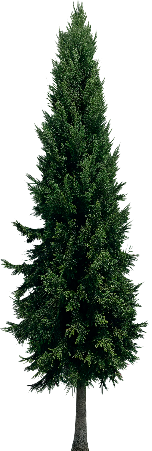
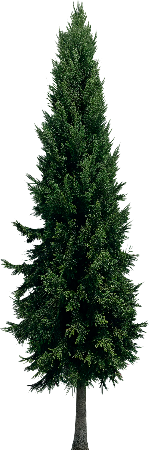
POV changes

Changed region(s): [[0.0, 0.0, 0.9867, 1.0]]

diff --git a/CS230/Game/Mode7.cpp b/CS230/Game/Mode7.cpp
@@ -44,32 +44,25 @@ void Mode7::DrawMode7Line(int y) //y doesnt skip
 
         DrawRectangle((int)position.x + x * blowup_scale, (int)position.y + blowup_scale * ((int)windowsize.y / 2 + y), blowup_scale, blowup_scale, color);
 
-        for (auto it : newMapGen::mapsprites)//430
+        for (auto it : newMapGen::mapsprites)
         {
-            if (!it.second.is_drawn )
+            if (!it.second.is_drawn)
             {
                 double dx = it.first.x - (double)texX;
                 double dy = it.first.y - (double)texY;
-                
-                
 
-                if (std::hypot(dx, dy) < 35)
+                float scale = 2.5f * fSampleDepth; //the reason why I used 2.5f is make scale size more maximize
+
+                if (std::hypot(dx, dy) < 50.0f)
                 {
-                    
-                    //DrawTexture(trafficlightsTex, ((int)position.x + x * blowup_scale) - trafficlightsTex.width / 2, ((int)position.y + blowup_scale * ((int)windowsize.y / 2 + y)) - trafficlightsTex.height, WHITE);
-                    float scale = fSampleDepth;
-                    float drawx = (float)(x * blowup_scale) - (float)((trafficlightsTex.width / 2.0));
-                    float drawy = (blowup_scale * (windowsize.y / 2 + y)) - (trafficlightsTex.height);
 
-                    DrawTextureEx(trafficlightsTex, { drawx,drawy },
-                        0,
-                        scale
-                        ,WHITE);
+                    float drawx = (float)(x * blowup_scale) - (trafficlightsTex.width * scale / 2.0f);
+                    float drawy = blowup_scale * (windowsize.y / 2 + y) - trafficlightsTex.height * scale;
+
+                    DrawTextureEx(trafficlightsTex, { drawx, drawy }, 0, scale, WHITE);
                     it.second.is_drawn = true;
-                    
                 }
             }
-
         }
     }
 }
@@ -80,30 +73,70 @@ void Mode7::Load()
 
     texMap = LoadTexture("CreatedMap.png");
     windowtabs = LoadTexture("Assets/windowtabs.png");
-    trafficlightsTex = LoadTexture("Assets/tree.png");
-
+    trafficlightsTex = LoadTexture("Assets/tree/dithered-image(2).png");
     player[0] = LoadTexture("Assets/Player/PlayerLeft-1.png");
     player[1] = LoadTexture("Assets/Player/PlayerLeft-2.png");
     player[2] = LoadTexture("Assets/Player/PlayerLeft-3.png");
-
-
     player[3] = LoadTexture("Assets/Player/PlayerRight-1.png");
     player[4] = LoadTexture("Assets/Player/PlayerRight-2.png");
     player[5] = LoadTexture("Assets/Player/PlayerRight-3.png");
-
     BWplayer[0] = LoadTexture("Assets/Player/BW/1.png");
     BWplayer[1] = LoadTexture("Assets/Player/BW/2.png");
     BWplayer[2] = LoadTexture("Assets/Player/BW/3.png");
     BWplayer[3] = LoadTexture("Assets/Player/BW/4.png");
     BWplayer[4] = LoadTexture("Assets/Player/BW/5.png");
     BWplayer[5] = LoadTexture("Assets/Player/BW/6.png");
-
     VPplayer[0] = LoadTexture("Assets/Player/vaporwave/scanlines/1.png");
     VPplayer[1] = LoadTexture("Assets/Player/vaporwave/scanlines/2.png");
     VPplayer[2] = LoadTexture("Assets/Player/vaporwave/scanlines/3.png");
     VPplayer[3] = LoadTexture("Assets/Player/vaporwave/scanlines/4.png");
     VPplayer[4] = LoadTexture("Assets/Player/vaporwave/scanlines/5.png");
     VPplayer[5] = LoadTexture("Assets/Player/vaporwave/scanlines/6.png");
+    trees[0] = LoadTexture("Assets/tree/dithered-image.png");
+    trees[1] = LoadTexture("Assets/tree/dithered-image(1).png");
+    trees[2] = LoadTexture("Assets/tree/dithered-image(2).png");
+
+    FovplayerRight[0]  = LoadTexture("Assets/Player/POV/Right hand/1.png");
+    FovplayerRight[1]  = LoadTexture("Assets/Player/POV/Right hand/2.png");
+    FovplayerRight[2]  = LoadTexture("Assets/Player/POV/Right hand/3.png");
+    FovplayerRight[3]  = LoadTexture("Assets/Player/POV/Right hand/4.png");
+    FovplayerRight[4]  = LoadTexture("Assets/Player/POV/Right hand/5.png");
+    FovplayerRight[5]  = LoadTexture("Assets/Player/POV/Right hand/6.png");
+    FovplayerRight[6]  = LoadTexture("Assets/Player/POV/Right hand/7.png");
+    FovplayerRight[7]  = LoadTexture("Assets/Player/POV/Right hand/8.png");
+    FovplayerRight[8]  = LoadTexture("Assets/Player/POV/Right hand/9.png");
+    FovplayerRight[9]  = LoadTexture("Assets/Player/POV/Right hand/10.png");
+    FovplayerRight[10] = LoadTexture("Assets/Player/POV/Right hand/11.png");
+    FovplayerRight[11] = LoadTexture("Assets/Player/POV/Right hand/12.png");
+    FovplayerRight[12] = LoadTexture("Assets/Player/POV/Right hand/13.png");
+    FovplayerRight[13] = LoadTexture("Assets/Player/POV/Right hand/14.png");
+    FovplayerRight[14] = LoadTexture("Assets/Player/POV/Right hand/15.png");
+    FovplayerRight[15] = LoadTexture("Assets/Player/POV/Right hand/16.png");
+    FovplayerRight[16] = LoadTexture("Assets/Player/POV/Right hand/17.png");
+    FovplayerRight[17] = LoadTexture("Assets/Player/POV/Right hand/18.png");
+   
+
+    FovplayerLeft[0]  = LoadTexture("Assets/Player/POV/Left hand/1.png");
+    FovplayerLeft[1]  = LoadTexture("Assets/Player/POV/Left hand/2.png");
+    FovplayerLeft[2]  = LoadTexture("Assets/Player/POV/Left hand/3.png");
+    FovplayerLeft[3]  = LoadTexture("Assets/Player/POV/Left hand/4.png");
+    FovplayerLeft[4]  = LoadTexture("Assets/Player/POV/Left hand/5.png");
+    FovplayerLeft[5]  = LoadTexture("Assets/Player/POV/Left hand/6.png");
+    FovplayerLeft[6]  = LoadTexture("Assets/Player/POV/Left hand/7.png");
+    FovplayerLeft[7]  = LoadTexture("Assets/Player/POV/Left hand/8.png");
+    FovplayerLeft[8]  = LoadTexture("Assets/Player/POV/Left hand/9.png");
+    FovplayerLeft[9]  = LoadTexture("Assets/Player/POV/Left hand/10.png");
+    FovplayerLeft[10] = LoadTexture("Assets/Player/POV/Left hand/11.png");
+    FovplayerLeft[11] = LoadTexture("Assets/Player/POV/Left hand/12.png");
+    FovplayerLeft[12] = LoadTexture("Assets/Player/POV/Left hand/13.png");
+    FovplayerLeft[13] = LoadTexture("Assets/Player/POV/Left hand/14.png");
+    FovplayerLeft[14] = LoadTexture("Assets/Player/POV/Left hand/15.png");
+    FovplayerLeft[15] = LoadTexture("Assets/Player/POV/Left hand/16.png");
+    FovplayerLeft[16] = LoadTexture("Assets/Player/POV/Left hand/17.png");
+    FovplayerLeft[17] = LoadTexture("Assets/Player/POV/Left hand/18.png");
+
+
+
     imgMap = LoadImageFromTexture(texMap);
 
     fPlayerScreenX = (float)Engine::GetWindow().GetSize().x / 2;
@@ -115,9 +148,9 @@ void Mode7::Update()
 
     if (IsKeyDown(KEY_A)) fNear -= 100 * GetFrameTime();
 
-    if (IsKeyDown(KEY_W)) fFar += 100 * GetFrameTime();
+    if (IsKeyDown(KEY_W)) fFar += 500 * GetFrameTime();
 
-    if (IsKeyDown(KEY_S)) fFar -= 100 * GetFrameTime();
+    if (IsKeyDown(KEY_S)) fFar -= 500 * GetFrameTime();
 
     if (IsKeyDown(KEY_Z)) fFoVHalf += 0.1f * GetFrameTime();
 
@@ -125,13 +158,15 @@ void Mode7::Update()
 
   
     if (IsKeyDown(KEY_RIGHT)) {
-
+        playersprites = 0;
         right = true;
         
     }
     else if (IsKeyDown(KEY_LEFT)) {
+        playersprites = 0;
         right = false;
     }
+
     else {
         if (fSpeed < 600) {
             fSpeed += 10;
@@ -240,25 +275,28 @@ void Mode7::DrawPlayer()
 
     if (right)
     {
-        if (playersprites > 0 && counter >3)
-        {
-            counter = 0;
-            playersprites--;
-        }
-    }
-    else 
-    {
-        if (playersprites < 5 && counter > 3)
+        if (playersprites < 18 && counter > 1)
         {
             counter = 0;
             playersprites++;
         }
+        DrawTextureEx(FovplayerLeft[playersprites], { -600,110 }, 0, 2, WHITE);
     }
-    float scale = 1;
-    DrawTextureEx(VPplayer[playersprites], { (float)Engine::GetWindow().GetSize().x / 2 - ((VPplayer[playersprites].width / 2) / scale),
+    else 
+    {
+        if (playersprites < 18 && counter > 1)
+        {
+            counter = 0;
+            playersprites++;
+        }
+        DrawTextureEx(FovplayerRight[playersprites], { -600,110 }, 0, 2, WHITE);
+    }
+
+
+   /* DrawTextureEx(VPplayer[playersprites], { (float)Engine::GetWindow().GetSize().x / 2 - ((VPplayer[playersprites].width / 2) / scale),
         ((float)Engine::GetWindow().GetSize().y / 5 * 2) + (VPplayer[playersprites].height / 2) / scale },
         0, 
         scale,
-        WHITE);
+        WHITE);*/
 }
 

diff --git a/CS230/Game/Mode7.h b/CS230/Game/Mode7.h
@@ -42,6 +42,11 @@ private:
 	static inline Texture2D player[6];
 	static inline Texture2D BWplayer[6];
 	static inline Texture2D VPplayer[6];
+
+	static inline Texture2D FovplayerRight[18];
+	static inline Texture2D FovplayerLeft[18];
+
+	static inline Texture2D trees[3];
 	static inline Image imgMap;
 
 	static inline Frustum frustum;
